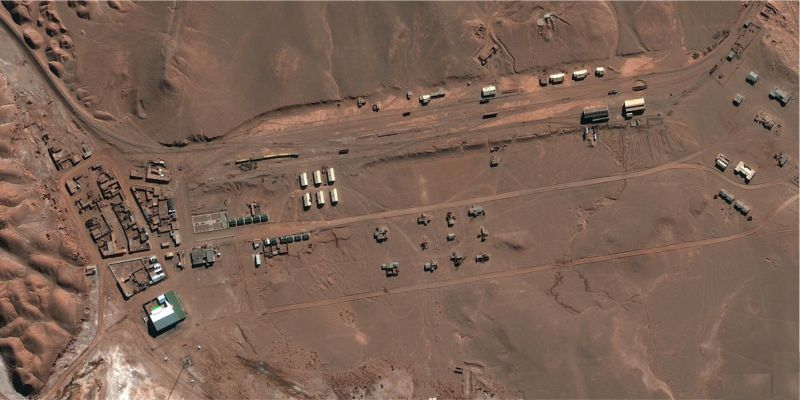
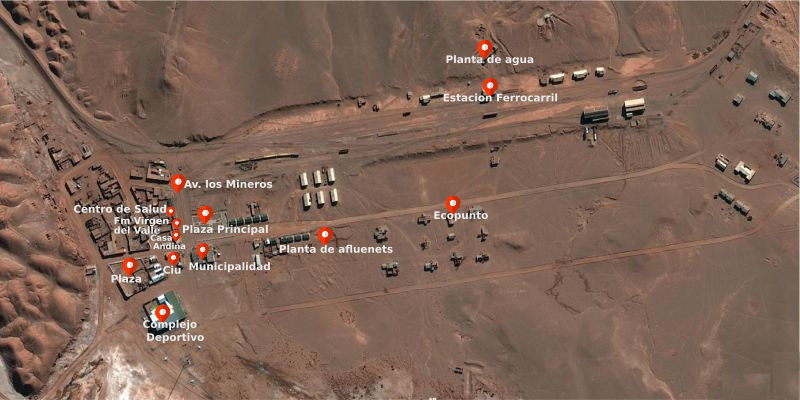
map cambiado,iconos

diff --git a/index.html b/index.html
@@ -38,7 +38,7 @@
                 <div class="row">
                     <div class="col-md-4">
                             <div class="panel panel-default">
-                                <div class="panel-body " >
+                                <div class="panel-body content">
 
                                     <div id="avenidaMineros">
                                         <img class="img-responsive"src="img/AvLosMineros.jpg" alt="AvLosMineros">
@@ -227,7 +227,7 @@
                                                     </p>
                                         </div>
 
-                                            <div id="municipalidad">
+                                        <div id="municipalidad">
                                                     <img class="img-responsive"src="img/Municipalidad.jpg" alt="Municipalidad">
                                         
                                                     <hr>
@@ -248,15 +248,15 @@
                                                             <br>
                                                             Las 3 fracciones separadas en los 2 ecopuntos se están colectando y transportando también en forma diferenciada mediante la utilización de 2 bolsones big bag para las fracciones secas mientras que la fracción denominada otros se transporta por separado en el acoplado.
                                                         </p>
-                                                </div>
+                                        </div>
 
                                             
-                                                <div id="plantaAgua">
-                                                        <img class="img-responsive"src="img/PlantadeAgua.jpg" alt="PlantadeAgua">
+                                        <div id="plantaAgua">
+                                            <img class="img-responsive"src="img/PlantadeAgua.jpg" alt="PlantadeAgua">
                                             
-                                                        <hr>
+                                            <hr>
                                                         
-                                                            <p>
+                                                        <p>
                                                                 La Recolección es la actividad consistente en recoger los residuos dispuestos en los sitios indicados y su carga en los vehículos recolectores. La recolección en la localidad de Tolar Grande es del tipo:
                                                                 <br>
                                                                 <br>
@@ -271,11 +271,11 @@
                                                                 <br>
                                                                 <br>
                                                                 Las 3 fracciones separadas en los 2 ecopuntos se están colectando y transportando también en forma diferenciada mediante la utilización de 2 bolsones big bag para las fracciones secas mientras que la fracción denominada otros se transporta por separado en el acoplado.
-                                                            </p>
-                                                 </div>
+                                                </p>
+                                        </div>
 
 
-                                                 <div id="casaAndina">
+                                        <div id="casaAndina">
                                                         <img class="img-responsive"src="img/CasaAndina.jpg" alt="CasaAndina">
                                             
                                                         <hr>
@@ -296,8 +296,8 @@
                                                                 <br>
                                                                 Las 3 fracciones separadas en los 2 ecopuntos se están colectando y transportando también en forma diferenciada mediante la utilización de 2 bolsones big bag para las fracciones secas mientras que la fracción denominada otros se transporta por separado en el acoplado.
                                                             </p>
-                                                </div>
-                                                    <div id="fmVirgenValle">
+                                        </div>
+                                        <div id="fmVirgenValle">
                                                             <img class="img-responsive"src="img/FmVirgenValle.jpg" alt="FmVirgenValle">
                                                 
                                                             <hr>
@@ -318,9 +318,9 @@
                                                                     <br>
                                                                     Las 3 fracciones separadas en los 2 ecopuntos se están colectando y transportando también en forma diferenciada mediante la utilización de 2 bolsones big bag para las fracciones secas mientras que la fracción denominada otros se transporta por separado en el acoplado.
                                                                 </p>
-                                                    </div>
+                                        </div>
 
-                                                        <div id="ecopunto">
+                                        <div id="ecopunto">
                                                                 <img class="img-responsive"src="img/ecopuntos.jpg" alt="ecopuntos">
                                                     
                                                                 <hr>
@@ -341,7 +341,7 @@
                                                                         <br>
                                                                         Las 3 fracciones separadas en los 2 ecopuntos se están colectando y transportando también en forma diferenciada mediante la utilización de 2 bolsones big bag para las fracciones secas mientras que la fracción denominada otros se transporta por separado en el acoplado.
                                                                     </p>
-                                                        </div>
+                                        </div>
 
 
                                 </div>
@@ -353,7 +353,7 @@
                                 <div class="panel-body">
                                         <img src="img/mapa800_400.jpg" class="img-responsive imgMap"alt="" usemap="#mapTolarGrande">
                                         <map name="mapTolarGrande" id="mapTolarGrande">
-                                                <area target="" id="mineros"alt="Avenida Los Mineros" title="Avenida Los Mineros" href="#avenidaMineros" coords="175,183,187,200" shape="rect">
+                                                <area target="" id="mineros"alt="Avenida Los Mineros" class="color" title="Avenida Los Mineros" href="#avenidaMineros" coords="175,183,187,200" shape="rect">
                                                 <area target="" id="principal"alt="Plaza Principal" title="Plaza Principal" href="#plazaPrincipal" coords="194,215,229,230" shape="rect">
                                                 <area target="" id="plaza2" alt="Plaza" title="Plaza" href="#plaza" coords="111,265,134,278" shape="rect">
                                                 <area target="" id="salud" alt="Centro de Salud" title="Centro de Salud" href="#centroSalud" coords="165,206,177,220" shape="rect">
@@ -390,9 +390,8 @@
             $('#avenidaMineros,#plazaPrincipal,#plaza,#centroSalud,#complejoDeportivo,#ciu,#plantaAfluentes,#estacionFerrocarril,#municipalidad,#plantaAgua,#casaAndina,#fmVirgenValle,#ecopunto').hide();
         }
         
-
+        
     
-
         $('#mineros').click(function(){
             ocultar();
             $('#avenidaMineros').show();    
@@ -445,6 +444,8 @@
             ocultar();
             $('#ciu').show();    
         })
+
+
         </script>
 </body>
 

diff --git a/styles.css b/styles.css
@@ -1,6 +1,6 @@
 html,body{
     font-family: 'Roboto', sans-serif;
-    
+    position: relative;
 }
 
 nav.navbar.navbar-default{
@@ -9,10 +9,11 @@ nav.navbar.navbar-default{
 }
 
 
-.scrollbar {
+.panel-body.content {
  
-  height: 100%;
-  overflow:auto;
+   height: 432px;
+    overflow-y:scroll;
+    width:100%;
 }
 
 h1.tituloFoto{
